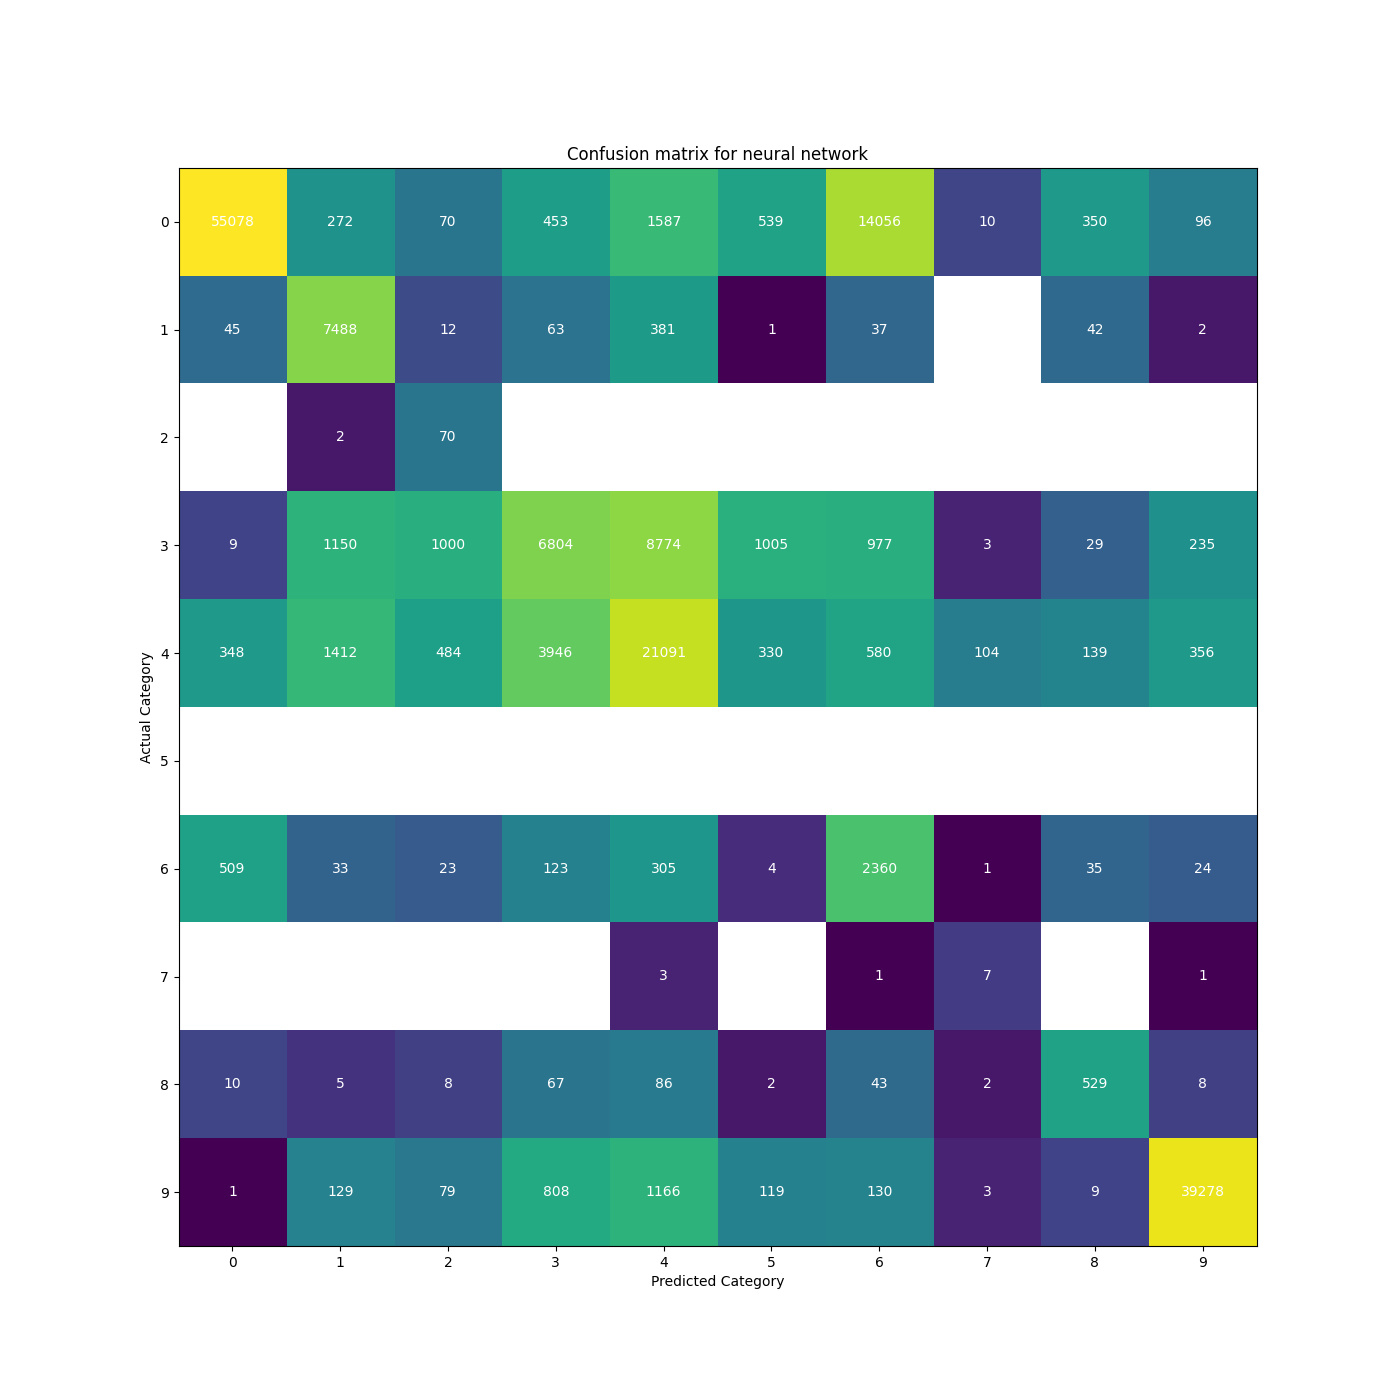
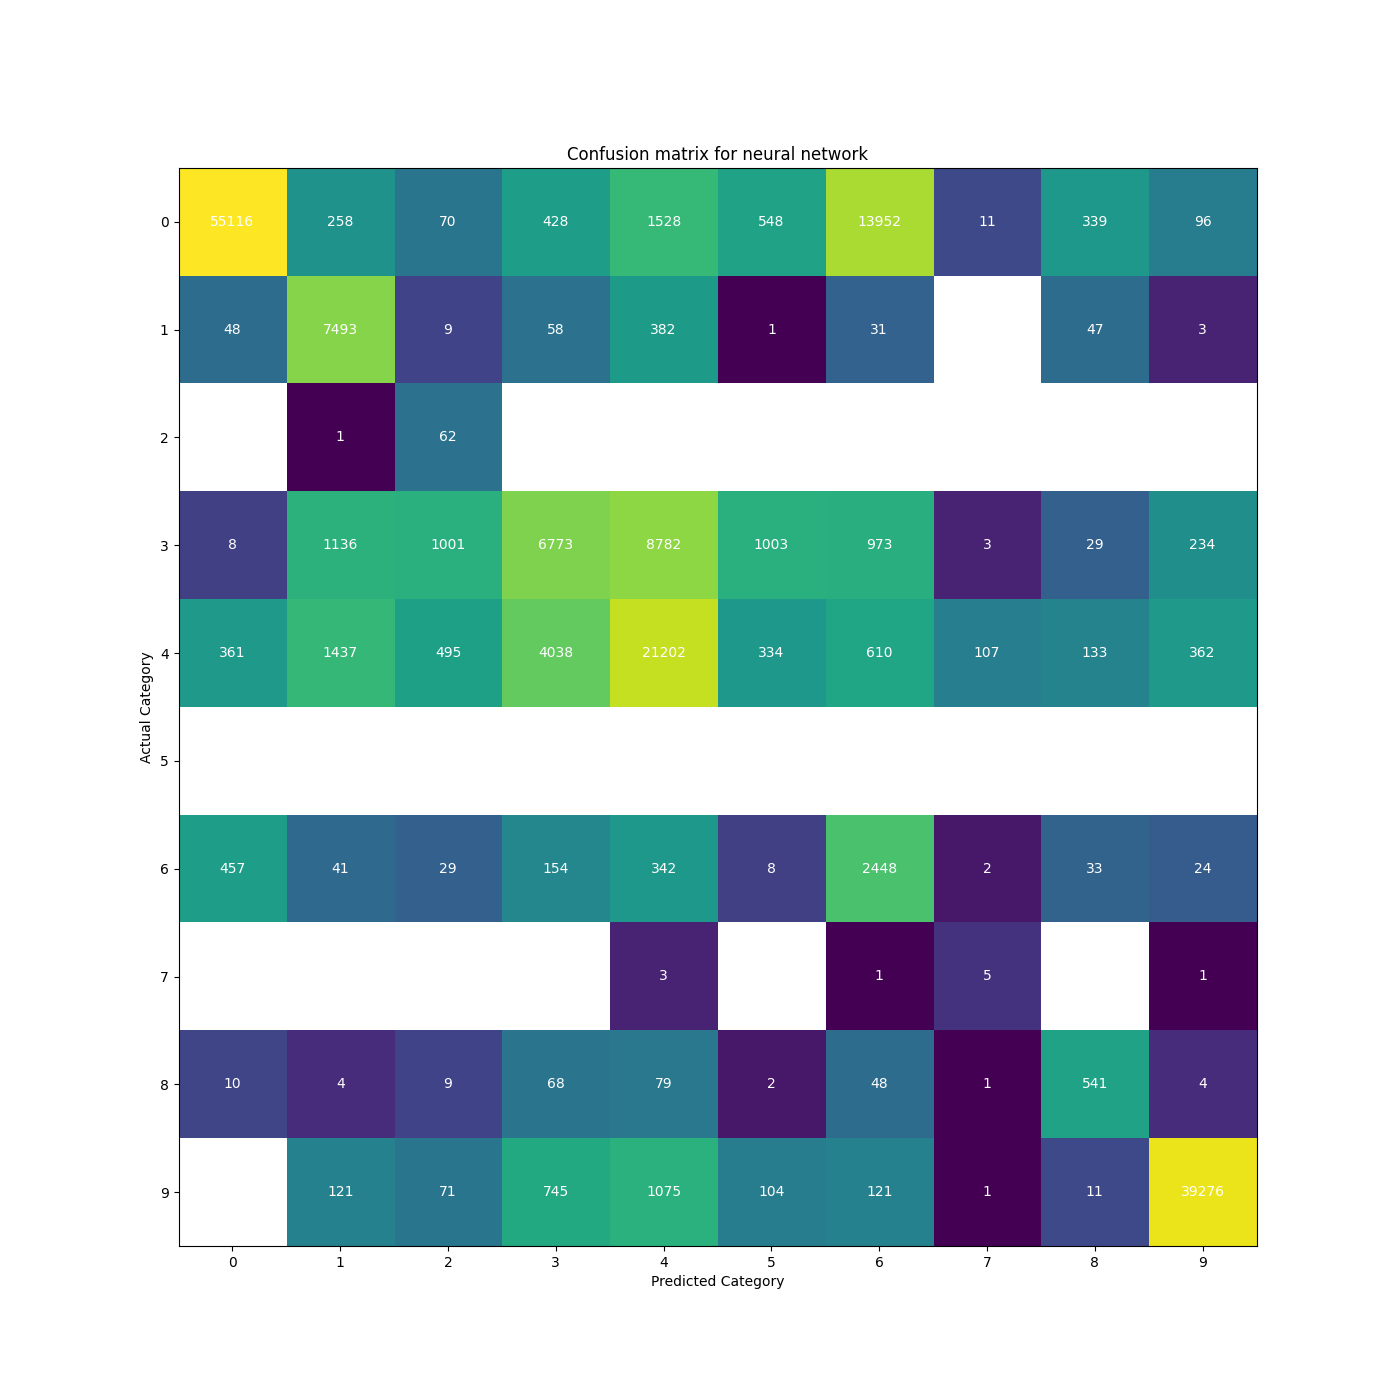
Optimised Model Training

diff --git a/ML-CMP417.py b/ML-CMP417.py
@@ -5,7 +5,6 @@ import matplotlib.pyplot as plt
 from sklearn.metrics import confusion_matrix,zero_one_loss, roc_curve, auc, precision_recall_curve
 from os import chdir
 from time import time
-from random import randint
 
 def draw_confusion_matrix(results):
     # Visualize confusion matrix
@@ -70,13 +69,10 @@ def draw_curves(attacks,test_labels,probabilities):
     plt.show()
     return
 
-def draw_recall_ROC_curves(TPR,FPR):
-    return
-
 def train_model(train_features,train_labels):
     # Initialise classifier and train model
     start = time()
-    classifier = RandomForestClassifier(n_jobs=-1,random_state=randint(0,100),n_estimators=250,max_depth=32)
+    classifier = RandomForestClassifier(n_jobs=-1,random_state=49,n_estimators=250,max_depth=32)
     print('Training Model...')
     model = classifier.fit(train_features,train_labels)
     print('Training Complete in ' + str(round(time()-start,2)) + ' seconds...')
@@ -122,14 +118,11 @@ def main():
     predictions = model.predict(test_features)
     
     #Performance Metrics
-    correct = 0
     TP = 0
     TN = 0
     FP = 0
     FN = 0
     for prediction,actual in zip(predictions,test_labels):
-        if prediction == actual:
-            correct += 1
         if attacks[actual] == 'Normal':             # If packet was classified Normal
             if attacks[prediction] != 'Normal':     # If packet was predicted as Attack
                 FP += 1                             # Add 1 to False Positive
@@ -153,7 +146,7 @@ def main():
     print('TPR: ',TPR)
     print('FPR: ',FPR) 
 
-    accuracy = (correct/test_labels.shape[0])*100
+    accuracy = ((TP+TN)/(TP+TN+FP+FN))*100
     print('Model Accuracy Against Test Data: ', round(accuracy, 2), '%')
 
     results = confusion_matrix(predictions,test_labels,labels=[i for i in range(len(attacks))])
